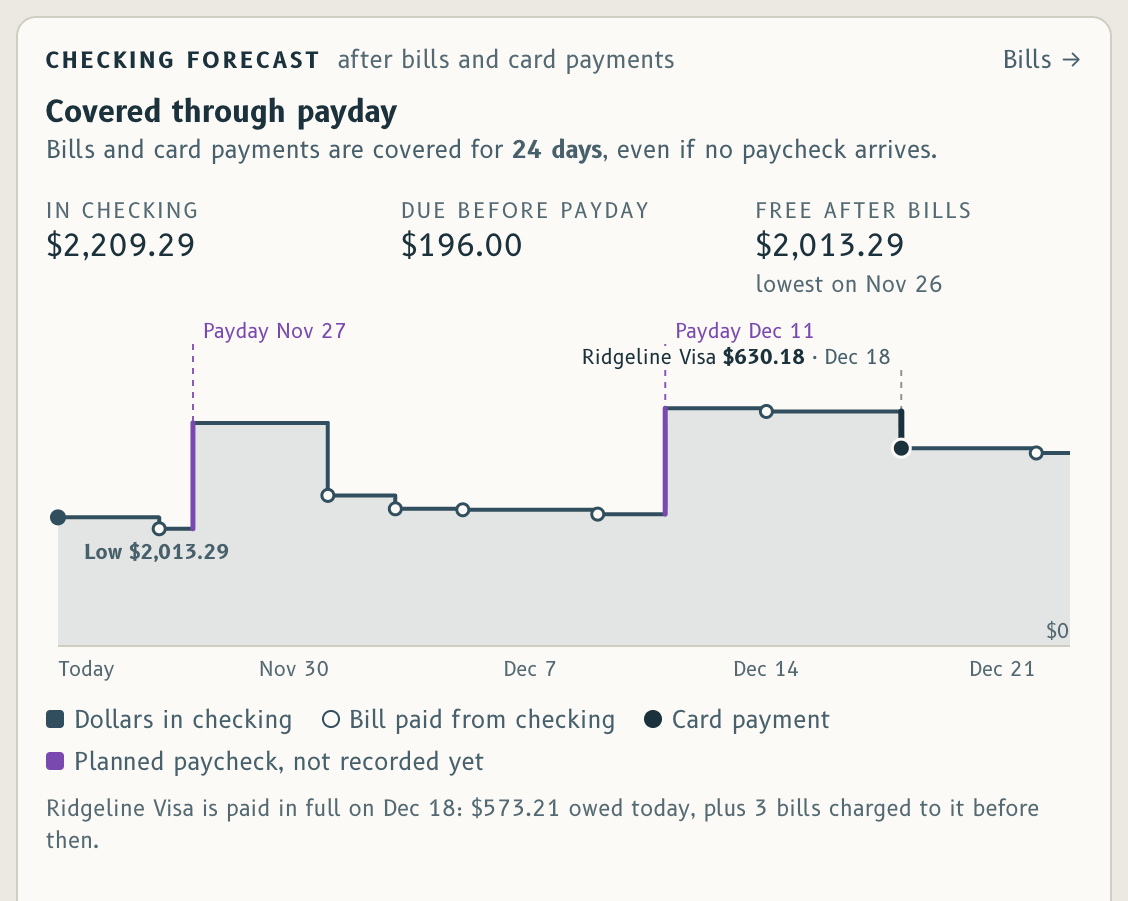
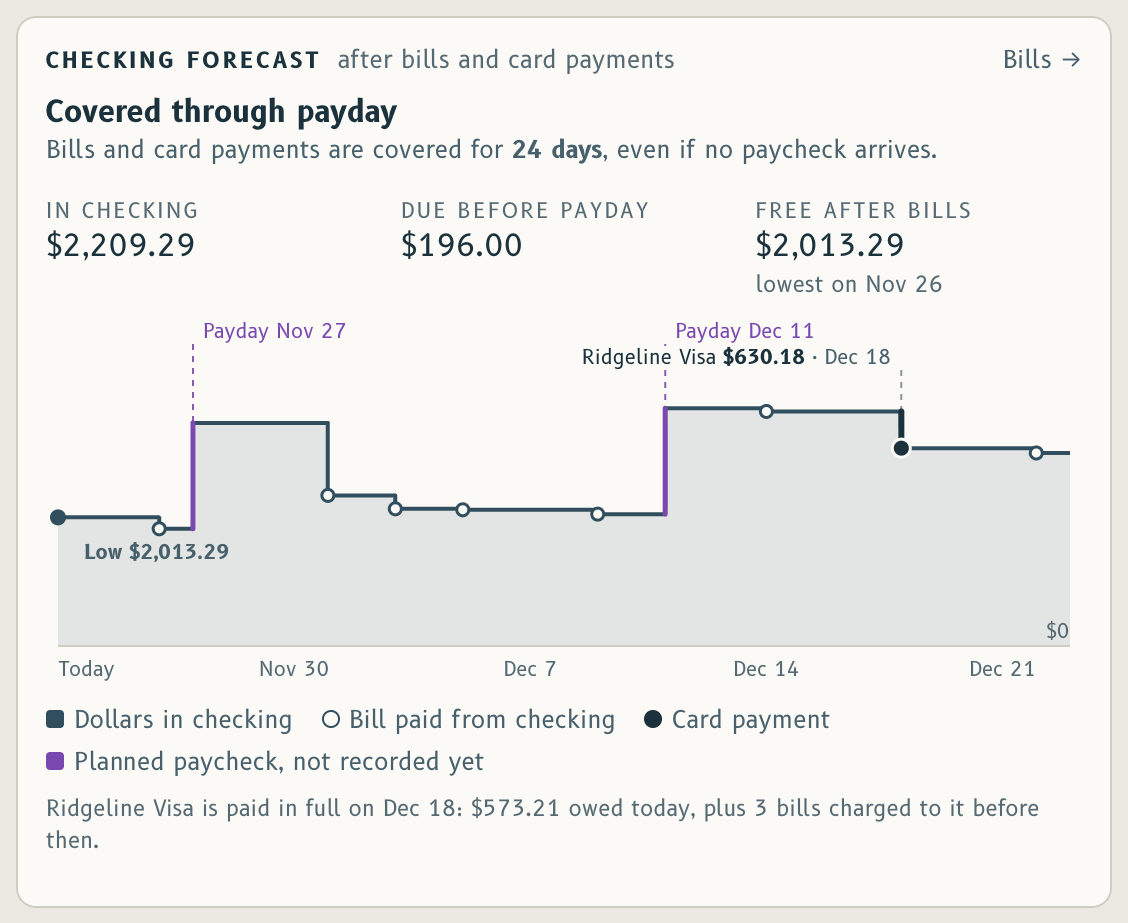
Keep the demo capture away from any real ledger, and finish the site build
- scripts/web_demo.py chose its throwaway database after the price refresh
  had already loaded the app, so with prices refreshed it used the default
  ./data/ledger.db. It now chooses the throwaway database before anything
  from the app is imported and refuses to run if the app opened any other
  file. scripts/demo_prices.py points the app's database setting at nothing.
- The browser demo answers the sums-only spending-history request, with a
  check against the server's own answer.
- Prices refreshed through 2026-11-23; demo tests hold when the last price
  day is today. Website pictures retaken from the rebuilt demo.

diff --git a/frontend/vite.config.ts b/frontend/vite.config.ts
@@ -22,6 +22,8 @@ const demoPage: Plugin = {
 
 export default defineConfig(({ mode }) => {
   const demo = mode === "demo";
+  // index.html is the new interface; legacy.html keeps the previous one until every screen is rebuilt.
+  const input: Record<string, string> = demo ? { main: "index.html" } : { main: "index.html", legacy: "legacy.html" };
   return {
     plugins: [react(), tailwindcss(), ...(demo ? [demoPage] : [])],
     base: demo ? "./" : "/",
@@ -32,8 +34,7 @@ export default defineConfig(({ mode }) => {
       outDir: demo ? "../website/dist/demo" : "dist",
       emptyOutDir: true,
       rollupOptions: {
-        // index.html is the new interface; legacy.html keeps the previous one until every screen is rebuilt.
-        input: demo ? { main: "index.html" } : { main: "index.html", legacy: "legacy.html" },
+        input,
         output: { manualChunks: { charts: ["recharts"] } },
       },
     },

diff --git a/frontend/src/demo/compose.ts b/frontend/src/demo/compose.ts
@@ -27,6 +27,8 @@ export interface Ask {
   interval: "month" | "year";
   category?: string | null;
   account?: string | null;
+  /** Sums only, without the list of entries, as the server's `summary=true` gives. */
+  summary?: boolean;
 }
 
 /** Exact decimal sum of strings such as "12.50" and "7"; null if any is missing. */
@@ -97,8 +99,8 @@ export function composeSpending(ask: Ask, answers: MonthAnswer[]) {
     totals: aggregate(rows),
     periods: sorted(groups).map(([period, items]) => ({ period, ...aggregate(items) })),
     categories: sorted(categories).map(([name, items]) => ({ name, ...aggregate(items) })),
-    transactions: rows.slice(0, 500),
-    transactions_truncated: rows.length > 500,
+    transactions: ask.summary ? [] : rows.slice(0, 500),
+    transactions_truncated: !ask.summary && rows.length > 500,
     current_reference: answers[0]?.current_reference ?? null,
   };
 }

diff --git a/frontend/src/demo/compose.test.ts b/frontend/src/demo/compose.test.ts
@@ -62,7 +62,10 @@ describe.skipIf(!checks)("the saved demo against the server it was saved from", 
     const [start, end] = [query.get("start")!, query.get("end")!];
     const answers = monthsBetween(start, end).map((month) => saved[month]);
     expect(answers.every(Boolean)).toBe(true);
-    const composed = composeSpending({ start, end, interval: query.get("interval") as "month" | "year", category }, answers);
+    const composed = composeSpending(
+      { start, end, interval: query.get("interval") as "month" | "year", category, summary: query.get("summary") === "true" },
+      answers,
+    );
     expect(composed).toEqual(answer);
   });
 });

diff --git a/frontend/src/demo/server.ts b/frontend/src/demo/server.ts
@@ -79,6 +79,7 @@ export function createServer(core: Core, load: (file: string) => Promise<unknown
         interval: query.get("interval") === "year" ? "year" : "month",
         category: category ? (names("/categories").get(category) ?? "\u0000") : null,
         account: account ? (names("/accounts").get(account) ?? "\u0000") : null,
+        summary: query.get("summary") === "true",
       },
       answers,
     );

diff --git a/scripts/build_site.py b/scripts/build_site.py
@@ -23,7 +23,12 @@ SITE = ROOT / "website"
 PAGES = SITE / "pages"
 DIST = SITE / "dist"
 
-NAV = [("demo/", "Demo"), ("download/", "Download"), ("how-it-thinks-about-money/", "How it thinks about money"), ("privacy/", "Privacy")]
+NAV = [
+    ("demo/", "Demo"),
+    ("download/", "Download"),
+    ("how-it-thinks-about-money/", "How it thinks about money"),
+    ("privacy/", "Privacy"),
+]
 
 # The logo: three gentle layered hills over the name, the same drawing the app uses.
 LOGO = """<svg class="logo" viewBox="0 0 200 49" role="img" aria-label="Appalachian Bitcoin">
@@ -120,7 +125,9 @@ def main() -> int:
             print(f"{page.name}: unknown placeholder {left[0]}", file=sys.stderr)
             return 1
         nav = "".join(
-            '<a href="{}{}"{}>{}</a>'.format(root, href, ' aria-current="page"' if path and href == path + "/" else "", label)
+            '<a href="{}{}"{}>{}</a>'.format(
+                root, href, ' aria-current="page"' if path and href == path + "/" else "", label
+            )
             for href, label in NAV
         )
         footer = nav + f'<a href="{repo}">Source code</a>'
@@ -149,16 +156,33 @@ def main() -> int:
     shutil.copytree(PAGES / "img", DIST / "img")
     (DIST / "_headers").write_text(HEADERS)
     (DIST / "robots.txt").write_text(f"User-agent: *\nAllow: /\n\nSitemap: {site['address']}/sitemap.txt\n")
-    (DIST / "sitemap.txt").write_text("\n".join(f"{site['address']}/{href}" for href in ["", *[href for href, _ in NAV]]) + "\n")
+    (DIST / "sitemap.txt").write_text(
+        "\n".join(f"{site['address']}/{href}" for href in ["", *[href for href, _ in NAV]]) + "\n"
+    )
     # A wrong address can be any depth, so this one page uses addresses from the top of the site.
     lost = '<h1>That page is not here</h1>\n<p class="lede">The address may be mistyped, or the page may have moved.</p>\n<div class="actions"><a class="btn primary" href="/">Go to the home page</a></div>'
     top_nav = "".join(f'<a href="/{href}">{label}</a>' for href, label in NAV)
     (DIST / "404.html").write_text(
-        LAYOUT.format(title="Page not found · Appalachian Bitcoin", description="", root="/", logo=LOGO, nav=top_nav, footer=top_nav, body=lost)
+        LAYOUT.format(
+            title="Page not found · Appalachian Bitcoin",
+            description="",
+            root="/",
+            logo=LOGO,
+            nav=top_nav,
+            footer=top_nav,
+            body=lost,
+        )
     )
-    missing = [name for name in re.findall(r'src="(?:\.\./)?img/([^"]+)"', "".join(p.read_text() for p in PAGES.glob("*.html"))) if not (PAGES / "img" / name).exists()]
+    missing = [
+        name
+        for name in re.findall(r'src="(?:\.\./)?img/([^"]+)"', "".join(p.read_text() for p in PAGES.glob("*.html")))
+        if not (PAGES / "img" / name).exists()
+    ]
     if missing:
-        print(f"Missing pictures in website/pages/img: {', '.join(sorted(set(missing)))}. Run: make site-shots", file=sys.stderr)
+        print(
+            f"Missing pictures in website/pages/img: {', '.join(sorted(set(missing)))}. Run: make site-shots",
+            file=sys.stderr,
+        )
     if not (DIST / "demo" / "index.html").exists():
         print("Note: the browser demo is not built yet (website/dist/demo). Run: make web-demo")
     print(f"Built {len(built)} pages into website/dist: {', '.join(built)}")

diff --git a/scripts/web_demo.py b/scripts/web_demo.py
@@ -64,9 +64,27 @@ def month_end(month: str, today: date) -> date:
 
 def main() -> int:
     parser = argparse.ArgumentParser(description=__doc__.split("\n")[0])
-    parser.add_argument("--offline", action="store_true", help="do not refresh prices; use the saved price file as it is")
+    parser.add_argument(
+        "--offline", action="store_true", help="do not refresh prices; use the saved price file as it is"
+    )
     parser.add_argument("--out", type=Path, default=OUT)
     args = parser.parse_args()
+
+    # The throwaway ledger is chosen before anything from the app is imported. The app decides
+    # where its database is the moment it is first imported, and its default is ./data/ledger.db,
+    # which on an owner's machine may be a real ledger.
+    work = tempfile.TemporaryDirectory()
+    database = Path(work.name).resolve() / "demo.db"
+    os.environ.update(
+        DATABASE_URL=f"sqlite:///{database}",
+        DEMO_ENABLED="true",
+        PRICE_WORKER_ENABLED="false",
+        APP_ORIGIN="http://testserver",
+    )
+    from app.db import engine
+
+    if Path(engine.url.database).resolve() != database:
+        raise SystemExit(f"Refusing to run: the app opened {engine.url.database}, not the throwaway ledger.")
 
     if not args.offline:
         sys.path.insert(0, str(ROOT / "scripts"))
@@ -75,13 +93,6 @@ def main() -> int:
         if demo_prices.main():
             return 1
 
-    work = tempfile.TemporaryDirectory()
-    os.environ.update(
-        DATABASE_URL=f"sqlite:///{Path(work.name) / 'demo.db'}",
-        DEMO_ENABLED="true",
-        PRICE_WORKER_ENABLED="false",
-        APP_ORIGIN="http://testserver",
-    )
     from alembic import command
     from alembic.config import Config
     from fastapi.testclient import TestClient
@@ -202,6 +213,7 @@ def main() -> int:
         spans = [
             (f"/spending-history?start={first}&end={today}&interval=year", None),
             (f"/spending-history?start={first}&end={today}&interval=month", None),
+            (f"/spending-history?start={first}&end={today}&interval=month&summary=true", None),
             (f"/spending-history?start={year_ago}-01&end={month_end(months[-2], today)}&interval=month", None),
             (
                 f"/spending-history?start={months[-25] if len(months) > 25 else months[0]}-01&end={today}"
@@ -222,7 +234,12 @@ def main() -> int:
                 "first_month": months[0],
                 "recent_from": str(recent_from),
                 "quote": quote,
-                "prices": {"source": prices.source, "method": prices.method, "through": str(prices.end), "retrieved_at": prices.retrieved_at},
+                "prices": {
+                    "source": prices.source,
+                    "method": prices.method,
+                    "through": str(prices.end),
+                    "retrieved_at": prices.retrieved_at,
+                },
                 "lazy": lazy,
                 "responses": responses,
             },

diff --git a/backend/tests/test_demo.py b/backend/tests/test_demo.py
@@ -17,8 +17,9 @@ from app.money import convert
 from app.prices import parse_time
 
 PRICES = load_prices()
-# The day the demo was built for: the morning after the last saved close.
-DAY = PRICES.end + timedelta(days=1)
+# The day the demo was built for: the morning after the last saved close. Closes are UTC days,
+# so west of Greenwich that morning can still be tomorrow; the ledger takes no entry dated ahead.
+DAY = min(PRICES.end + timedelta(days=1), date.today())
 
 
 def days(start, end):
@@ -40,6 +41,7 @@ def test_the_price_file_holds_a_real_close_for_every_day_of_the_window():
     start = window_start(PRICES)
     assert PRICES.source == "Coinbase" and PRICES.method == "daily_close"
     assert parse_time(PRICES.retrieved_at).date() > PRICES.end, "closes are completed UTC days only"
+    assert PRICES.end < date.today() + timedelta(days=1)
     assert (PRICES.end.year - start.year, start.day) == (5, 1), "five years, opening on the first of a month"
     missing = [str(day) for day in days(start, PRICES.end) if PRICES.close(day) is None]
     assert not missing, f"days in the demo window with no saved close: {missing[:5]}"

diff --git a/scripts/demo_prices.py b/scripts/demo_prices.py
@@ -16,12 +16,17 @@ of the file and reported; it is never filled in.
 """
 
 import json
+import os
 import sys
 import time
 from datetime import date, timedelta
 from pathlib import Path
 
-from app.prices import Coinbase, RateUnavailable, utcnow
+# This script only fetches public prices. Importing the app's price code also loads its
+# database settings, so point those at nothing unless a caller has already chosen a database.
+os.environ.setdefault("DATABASE_URL", "sqlite://")
+
+from app.prices import Coinbase, RateUnavailable, utcnow  # noqa: E402
 
 ROOT = Path(__file__).resolve().parents[1]
 PRICE_FILE = ROOT / "backend" / "app" / "demo_data" / "btc_usd_daily.json"
